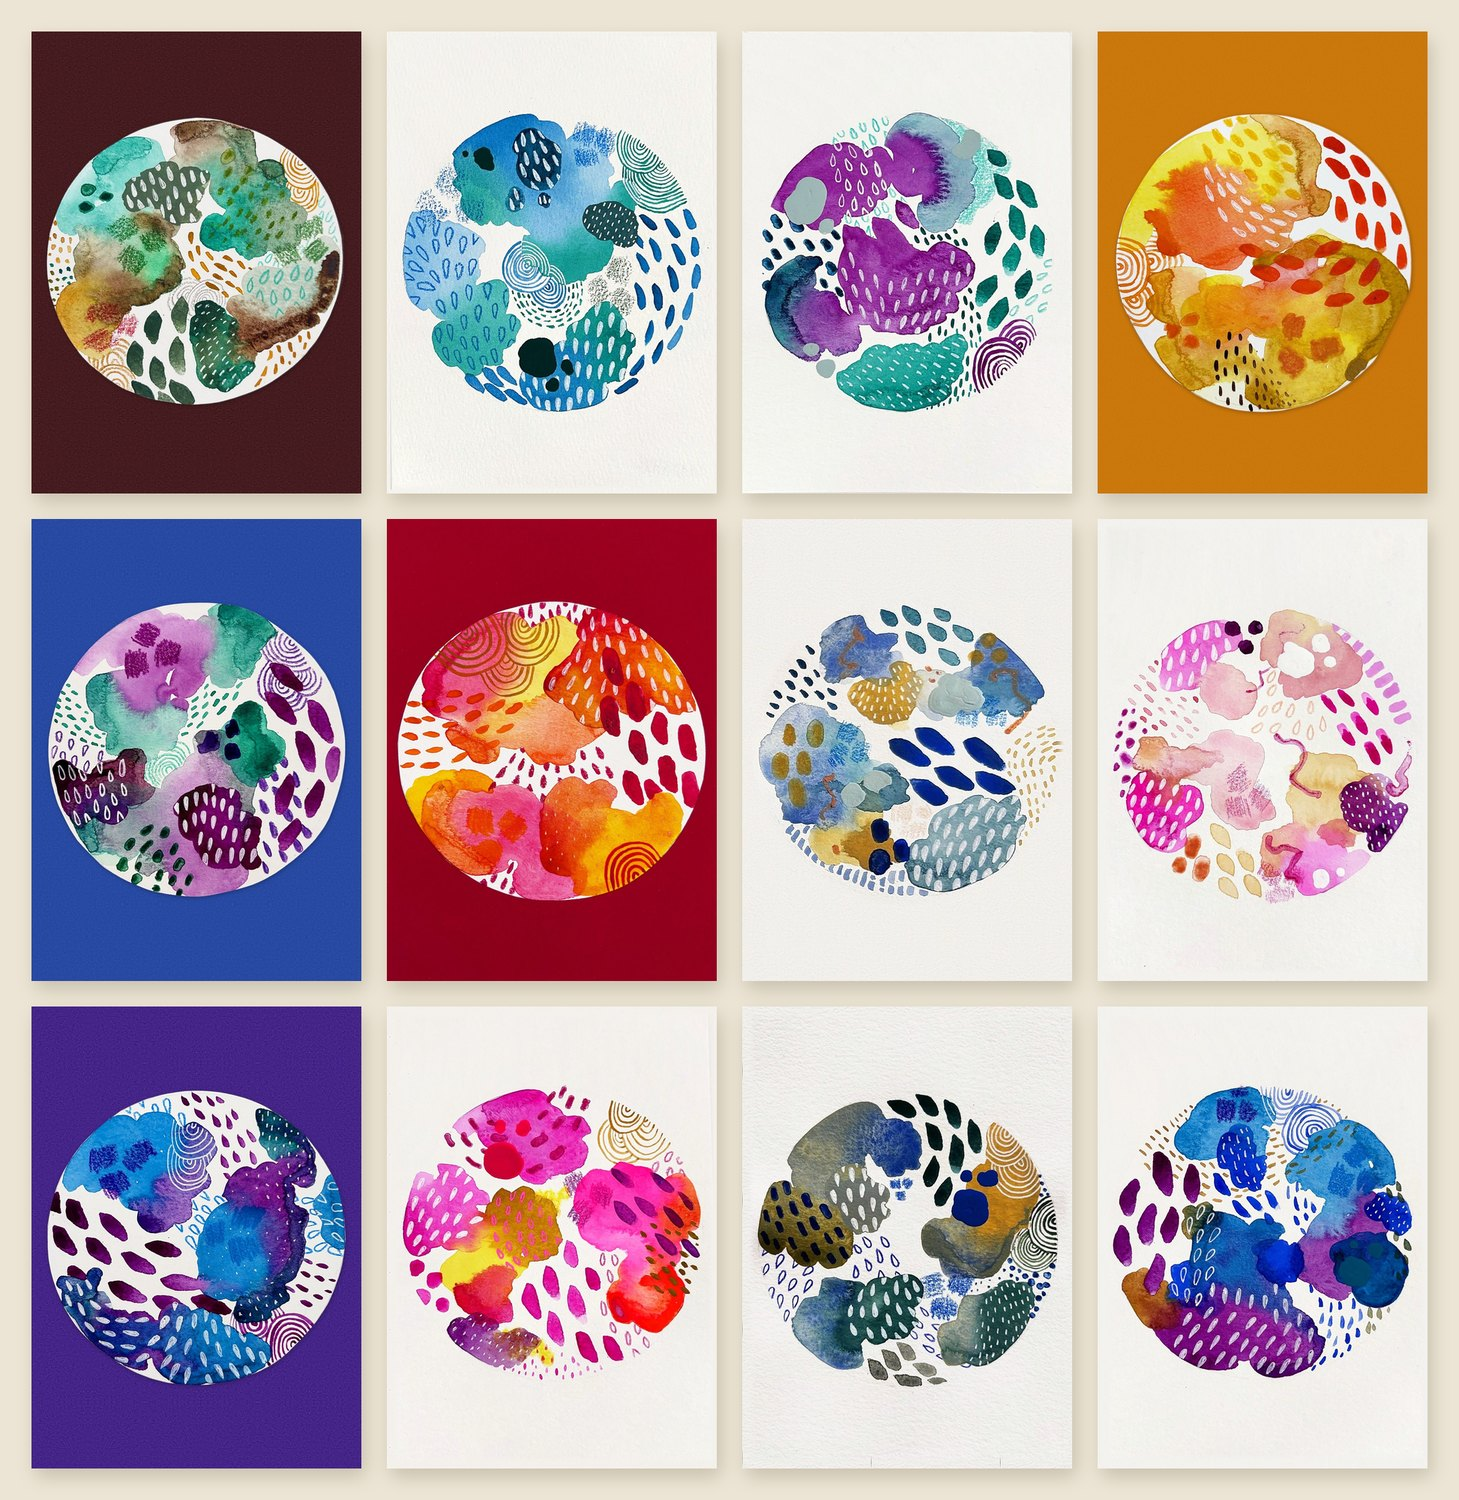
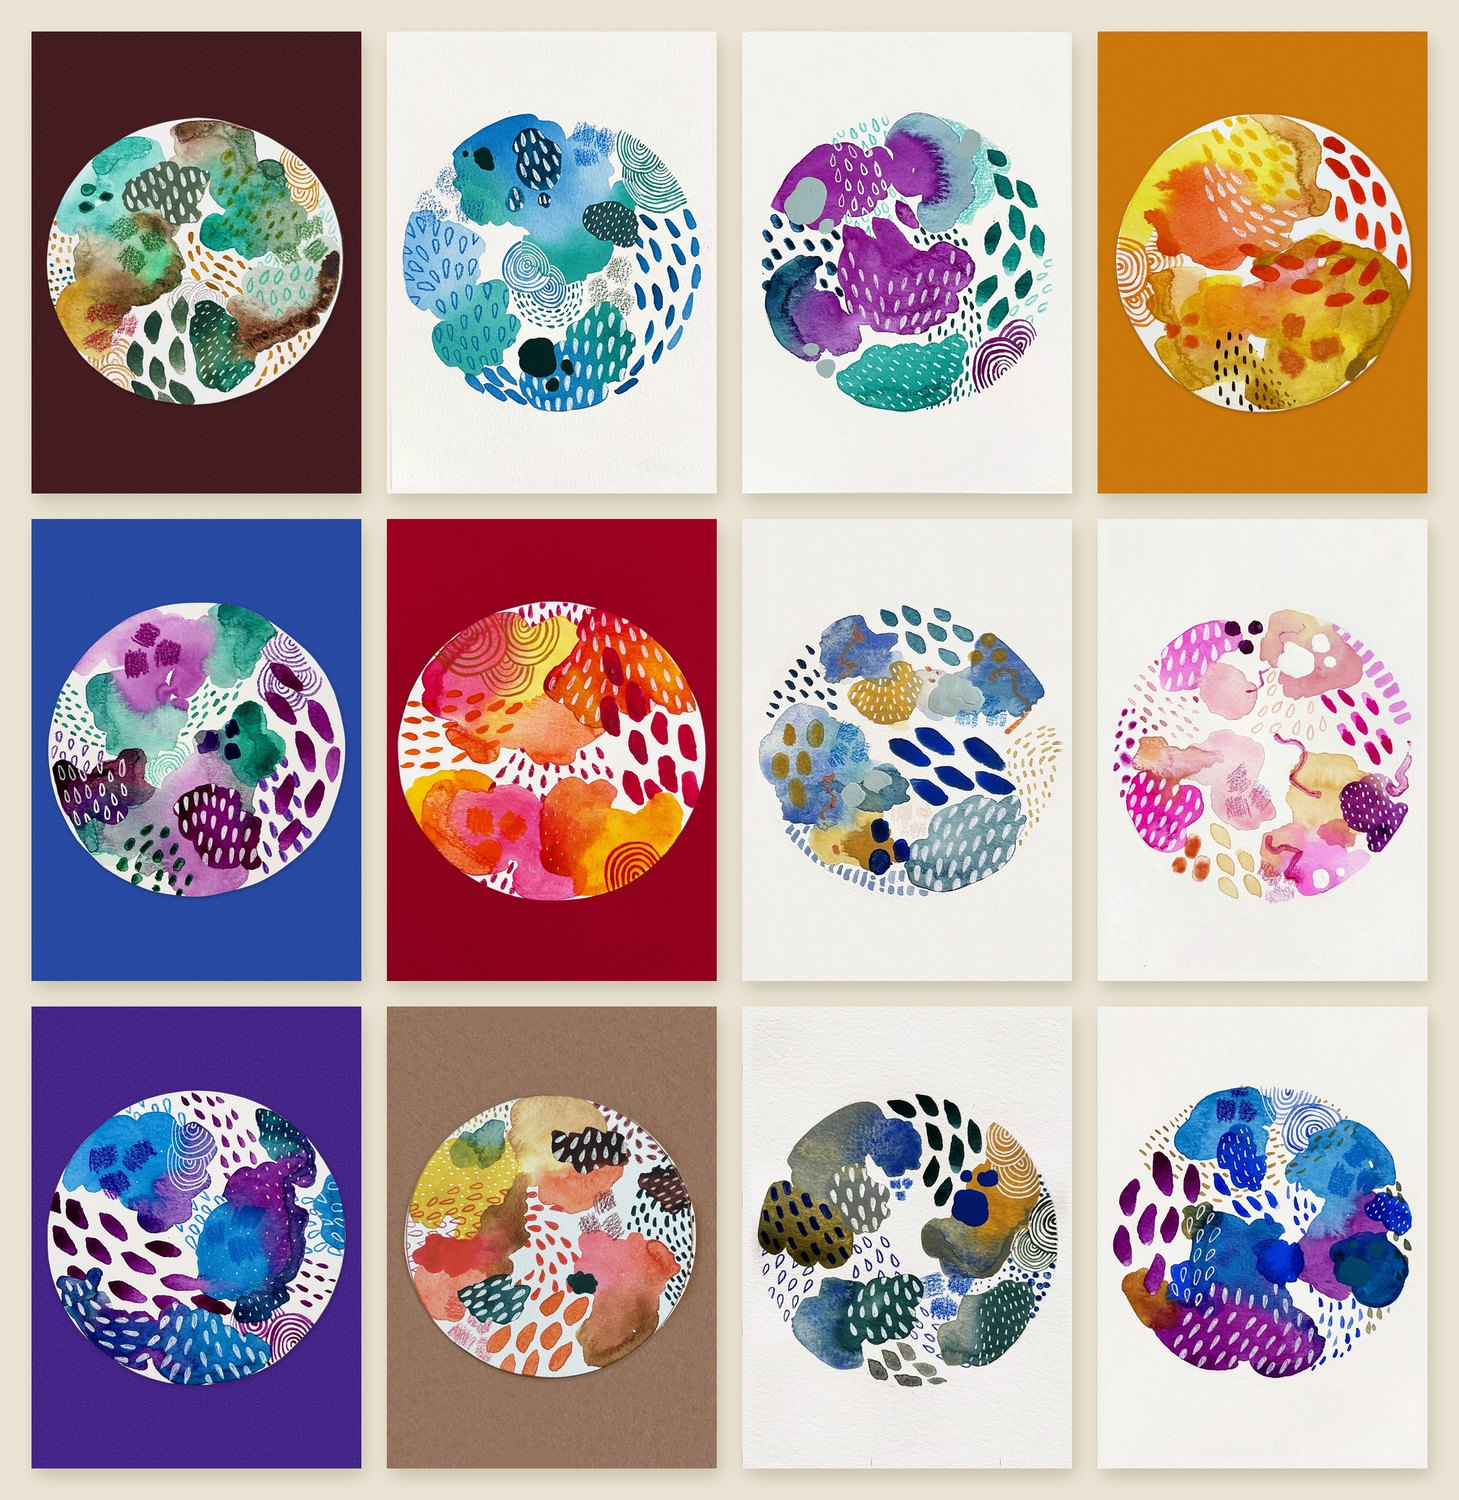
Landing grid: Earth & Blush replaces Fuchsia Bloom
Claude-Session: https://claude.ai/code/session_01XKp1RWTHCKMFYA4zME3iiX

Changed region(s): [[0.2467, 0.644, 0.4935, 0.9813]]

diff --git a/public/app.js b/public/app.js
@@ -41,7 +41,7 @@ const CONFIG = {
   ],
   defaultCollection: 'intuitive-abstracts',
   // Big image at the top: one piece, edited and hosted in /art
-  hero: { image: '/art/hero-grid.jpg?v=3', title: 'The collection', photo: true },
+  hero: { image: '/art/hero-grid.jpg?v=4', title: 'The collection', photo: true },
   shipping: {
     fr: "Livraison gratuite au Canada et aux États-Unis. Expédiée sous 3 à 5 jours ouvrables, bien protégée.",
     en: "Free shipping within Canada and the US. Ships within 3–5 business days, carefully packaged.",

diff --git a/public/about.html b/public/about.html
@@ -30,6 +30,6 @@
     <span data-i18n="secure"></span>
   </footer>
 
-  <script src="app.js?v=1794747172"></script>
+  <script src="app.js?v=1794747420"></script>
 </body>
 </html>

diff --git a/public/piece.html b/public/piece.html
@@ -30,6 +30,6 @@
     <span data-i18n="secure"></span>
   </footer>
 
-  <script src="app.js?v=1794747172"></script>
+  <script src="app.js?v=1794747420"></script>
 </body>
 </html>

diff --git a/public/index.html b/public/index.html
@@ -67,6 +67,6 @@
   </footer>
 
 
-  <script src="app.js?v=1794747172"></script>
+  <script src="app.js?v=1794747420"></script>
 </body>
 </html>
